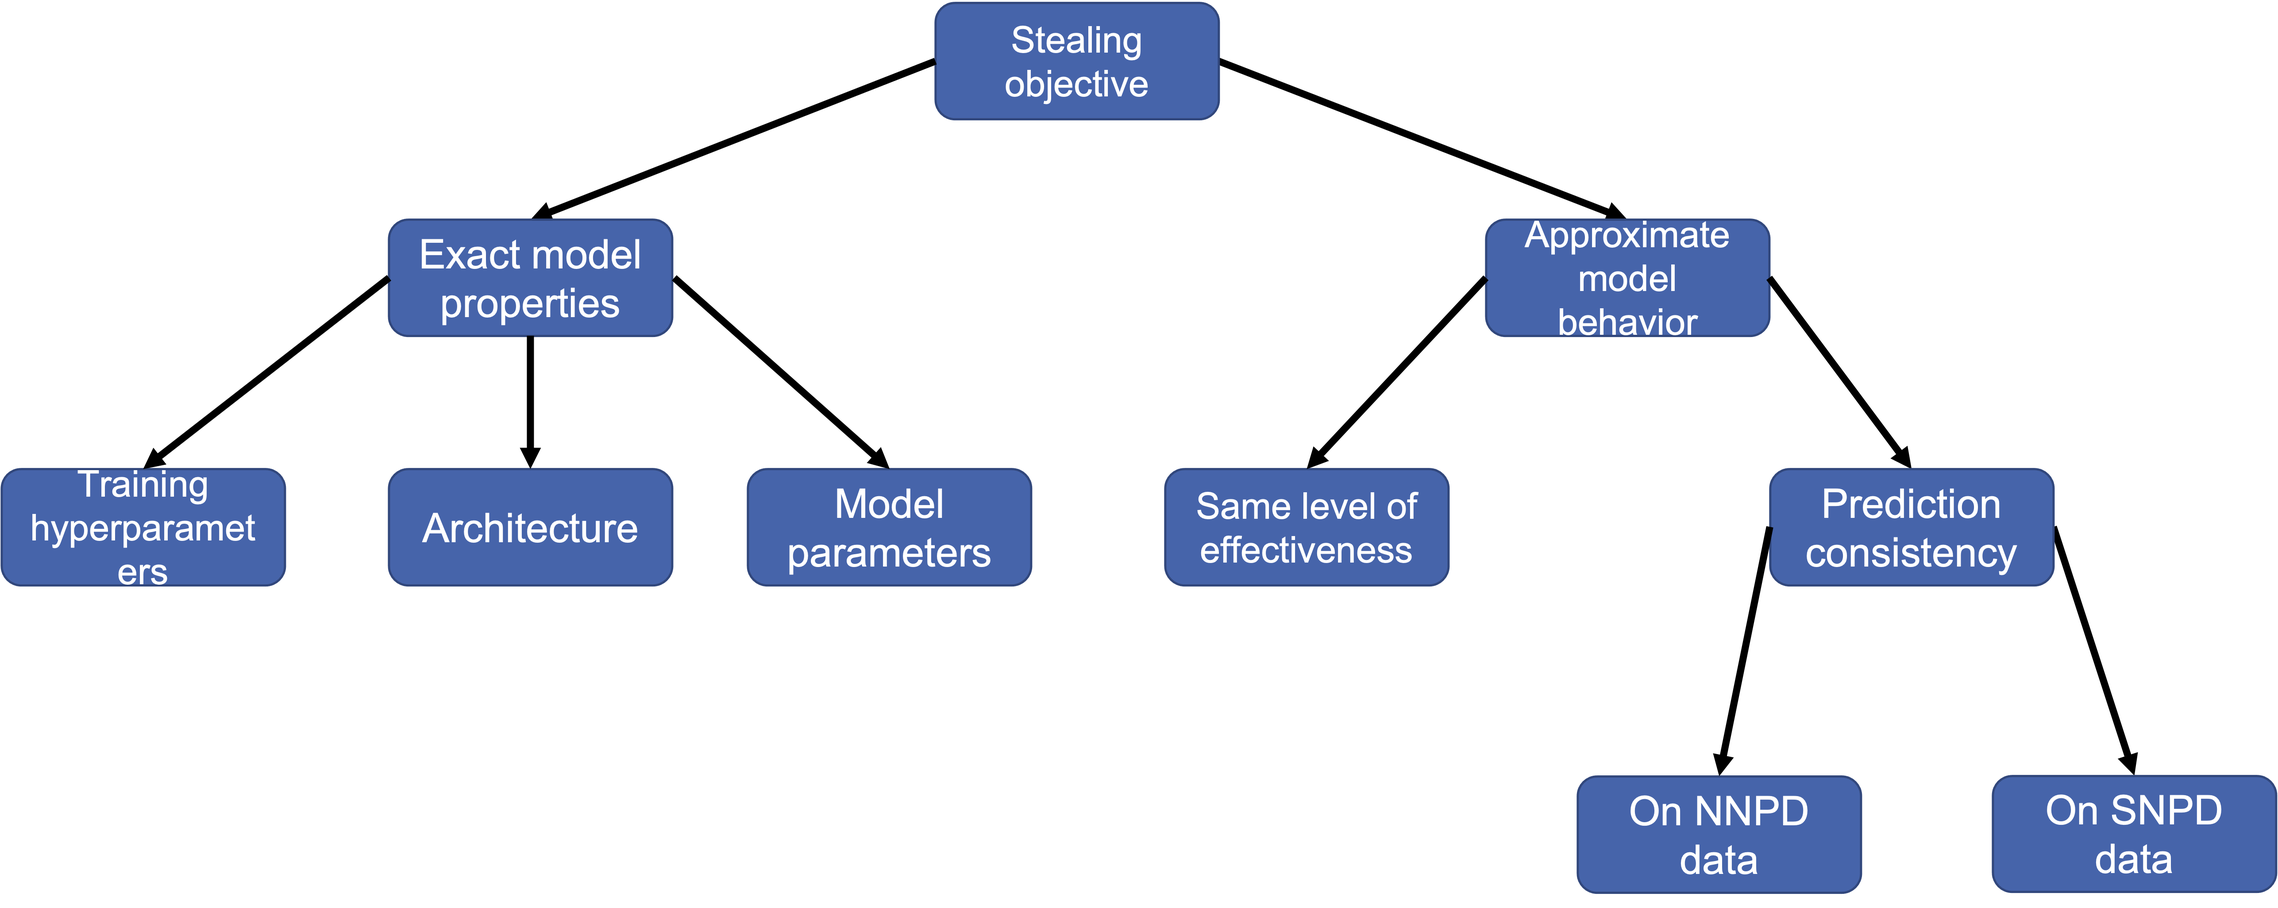
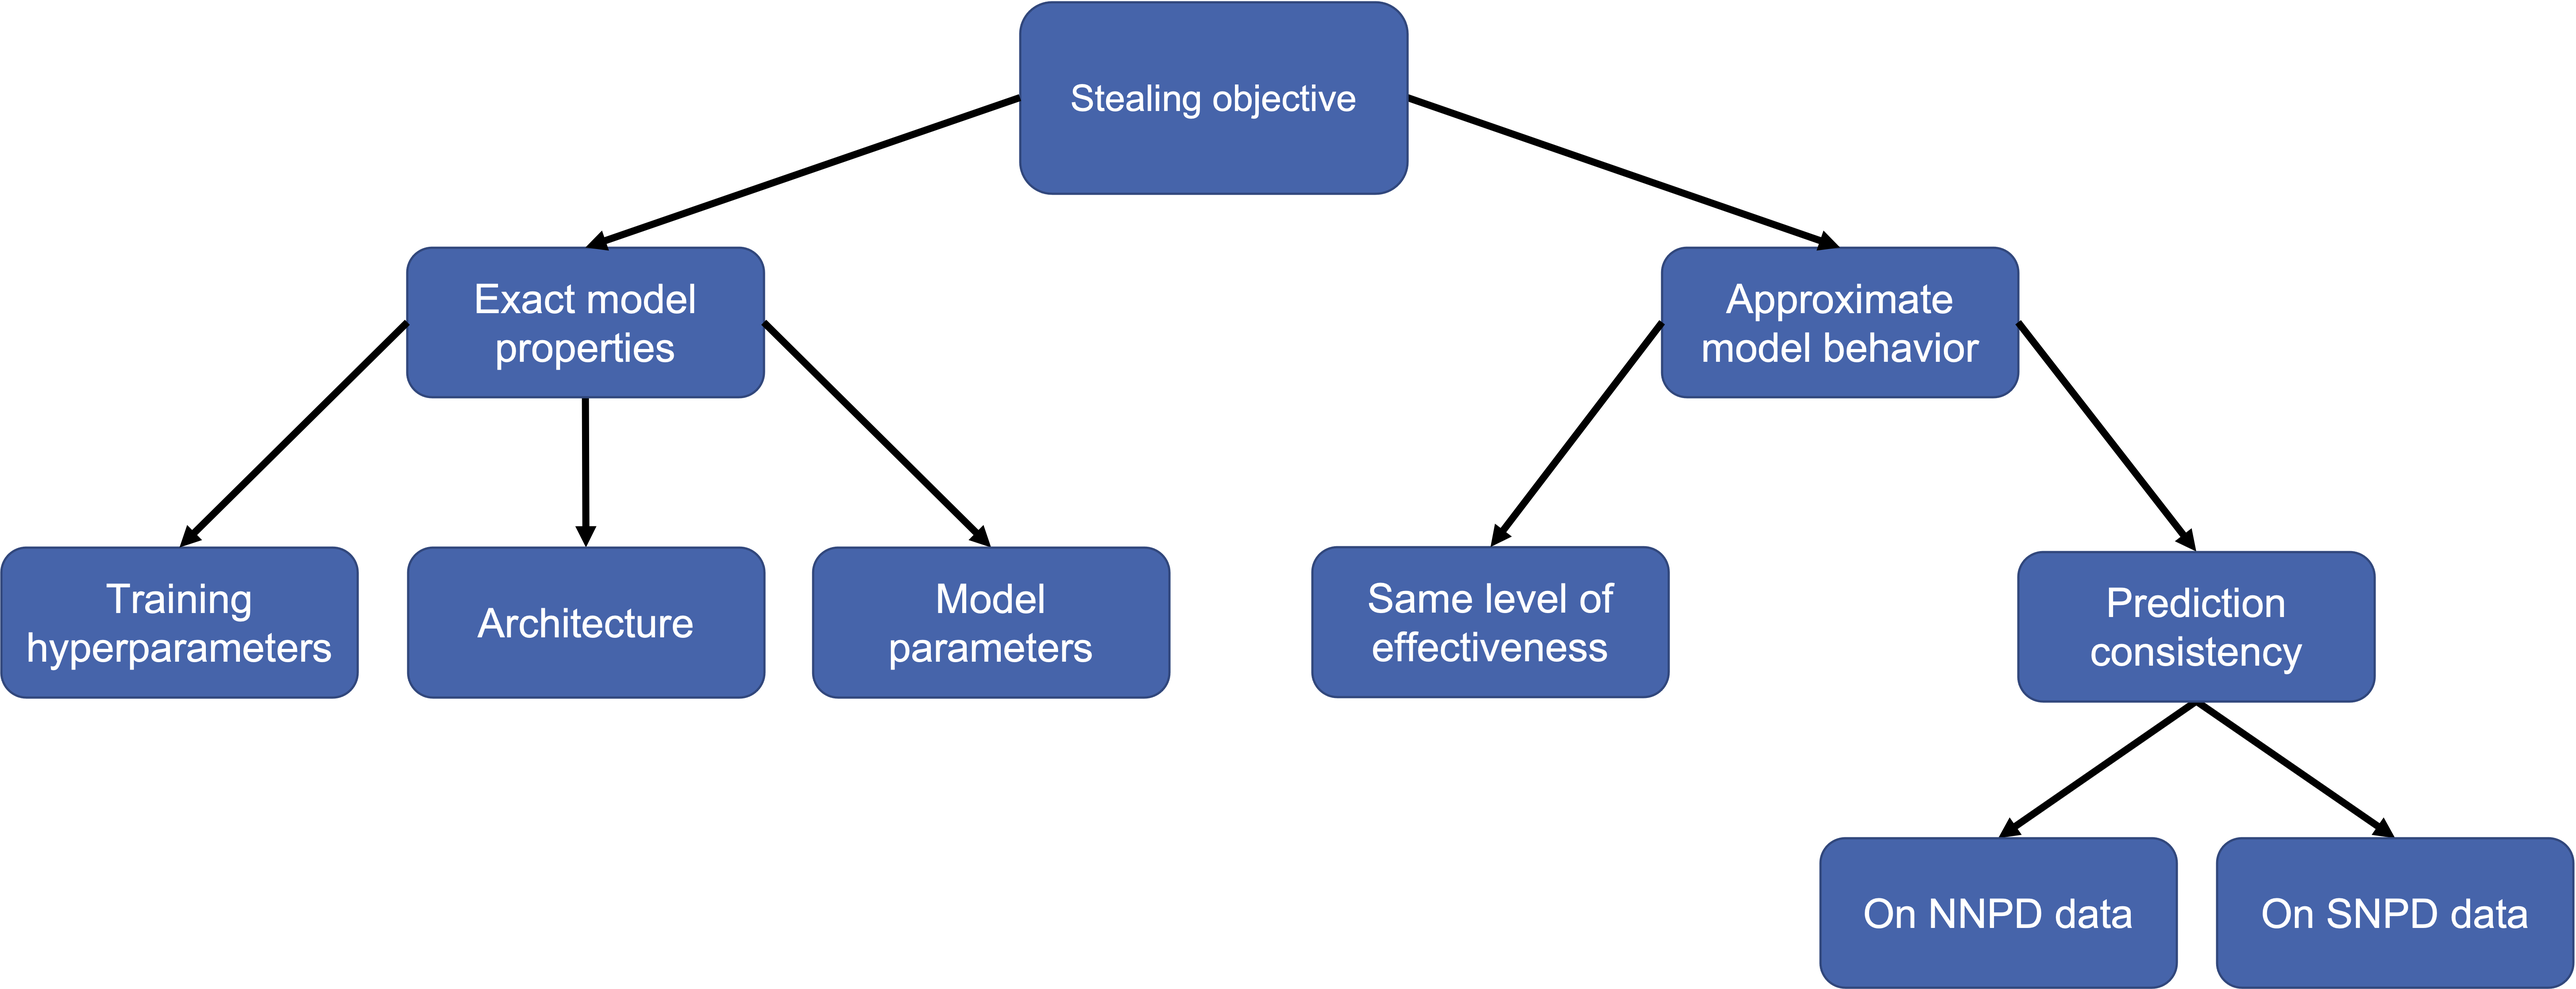
Remove pp images and add matplotlib images

diff --git a/doc/thesis/sections/evaluation.tex b/doc/thesis/sections/evaluation.tex
@@ -208,7 +208,8 @@ We also notice that while the validation accuracy does drop after switching to C
 %TODO: Hier die Bilder noch ändern sodass sie nicht aus Powerpoint sind
 \begin{figure}[h]
     \centering
-    \includegraphics[width=\linewidth]{images/results_CAL/Delayed_start_CAL.png}
+    \includegraphics[width=0.45\linewidth]{images/results_CAL/delayed_start_badge_ewc.png} \hfill
+    \includegraphics[width=0.45\linewidth]{images/results_CAL/delayed_start_badge_mas.png}
     \caption[Continual Active Learning Hybrid approach]{Comparison of validation accuracy for a delayed start of Continual Learning. Left: Accuracy progression for \gls{badge} and \gls{ewc}. Right: Accuracy progression for \gls{badge} and \gls{mas}.}
     \label{fig:Evaluation:Results:CAL:DelayedStart}
 \end{figure}
@@ -240,7 +241,8 @@ when using CoreSet selection and random selection. We notice that the validation
 %TODO: Hier die Bilder noch ändern sodass sie nicht aus Powerpoint sind
 \begin{figure}[h]
     \centering
-    \includegraphics[width=\linewidth]{images/results_CAL/replay_CAL.png}
+    \includegraphics[width=0.45\linewidth]{images/results_CAL/replay_varying_batch_size.png} \hfill
+    \includegraphics[width=0.45\linewidth]{images/results_CAL/replay_buffer_selection.png}
     \caption[Continual Active Learning Custom Replay strategy]{Left: Comparison of validation accuracy of our Replay strategy with different hyperparameters. Right: Comparison of validation accuracy of our Replay strategy when using different buffer compression approaches.
     In both runs, we use a batch size of 4000 and a replay buffer size of 4000.}
     \label{fig:Evaluation:Results:CAL:Replay}
